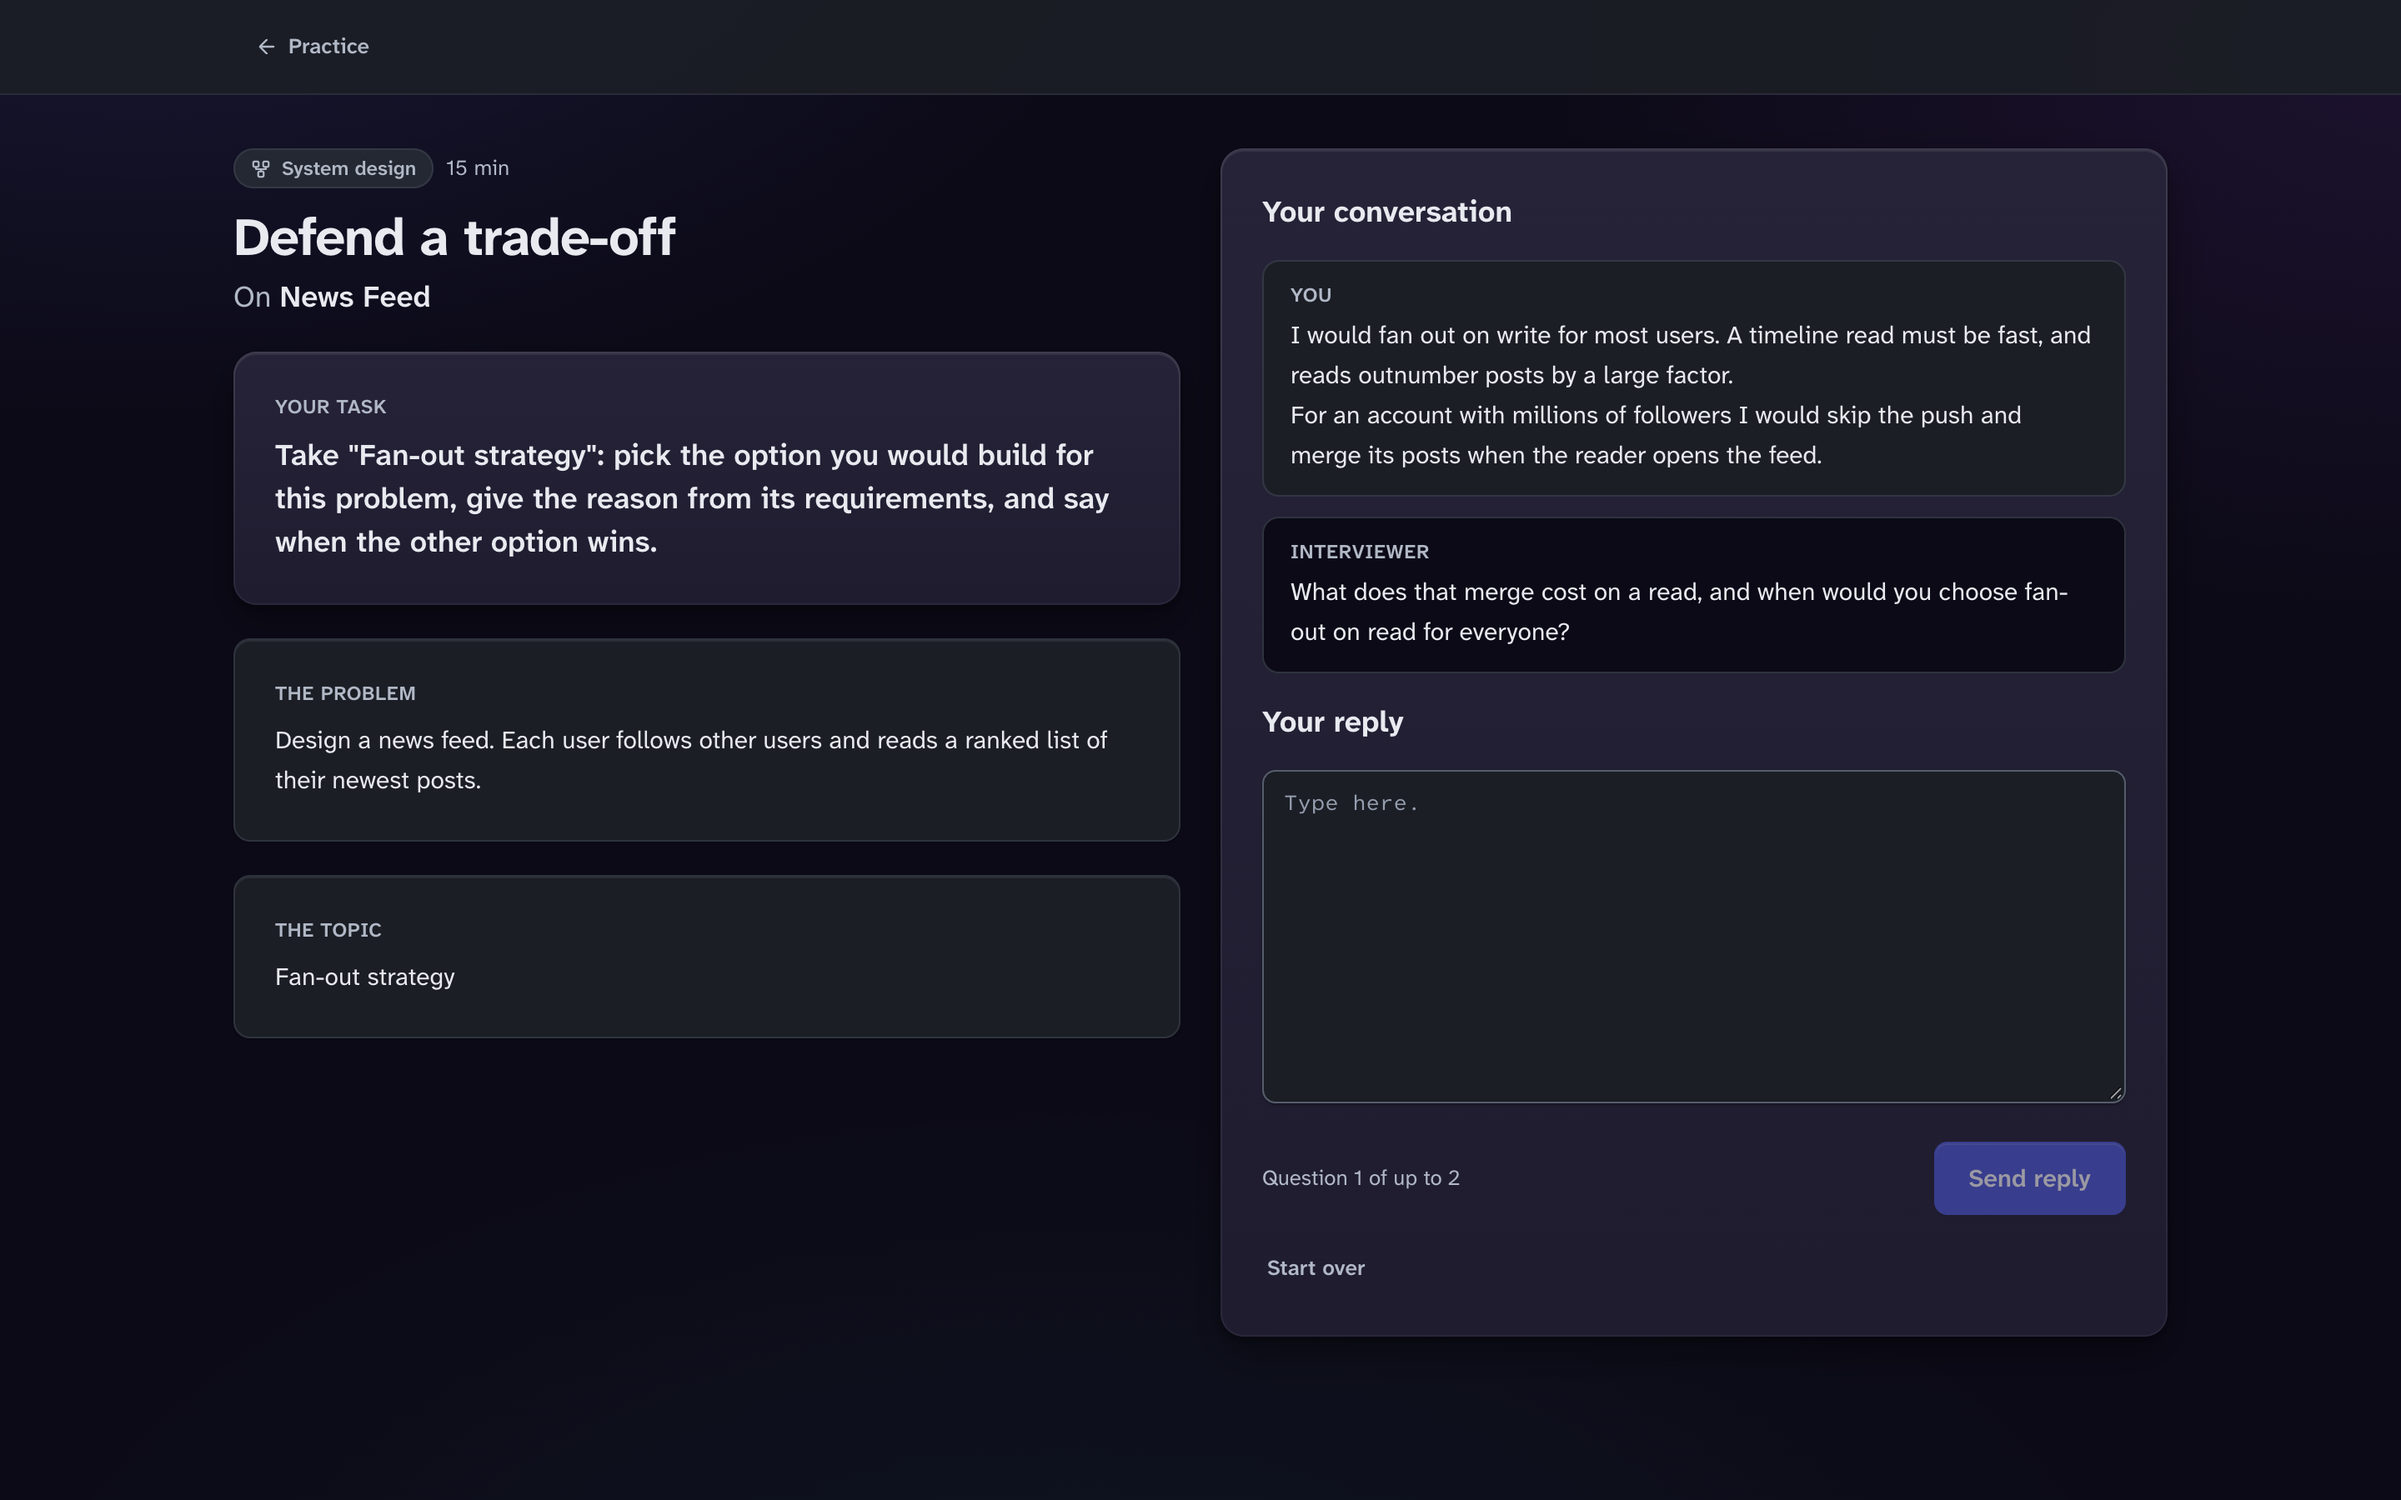
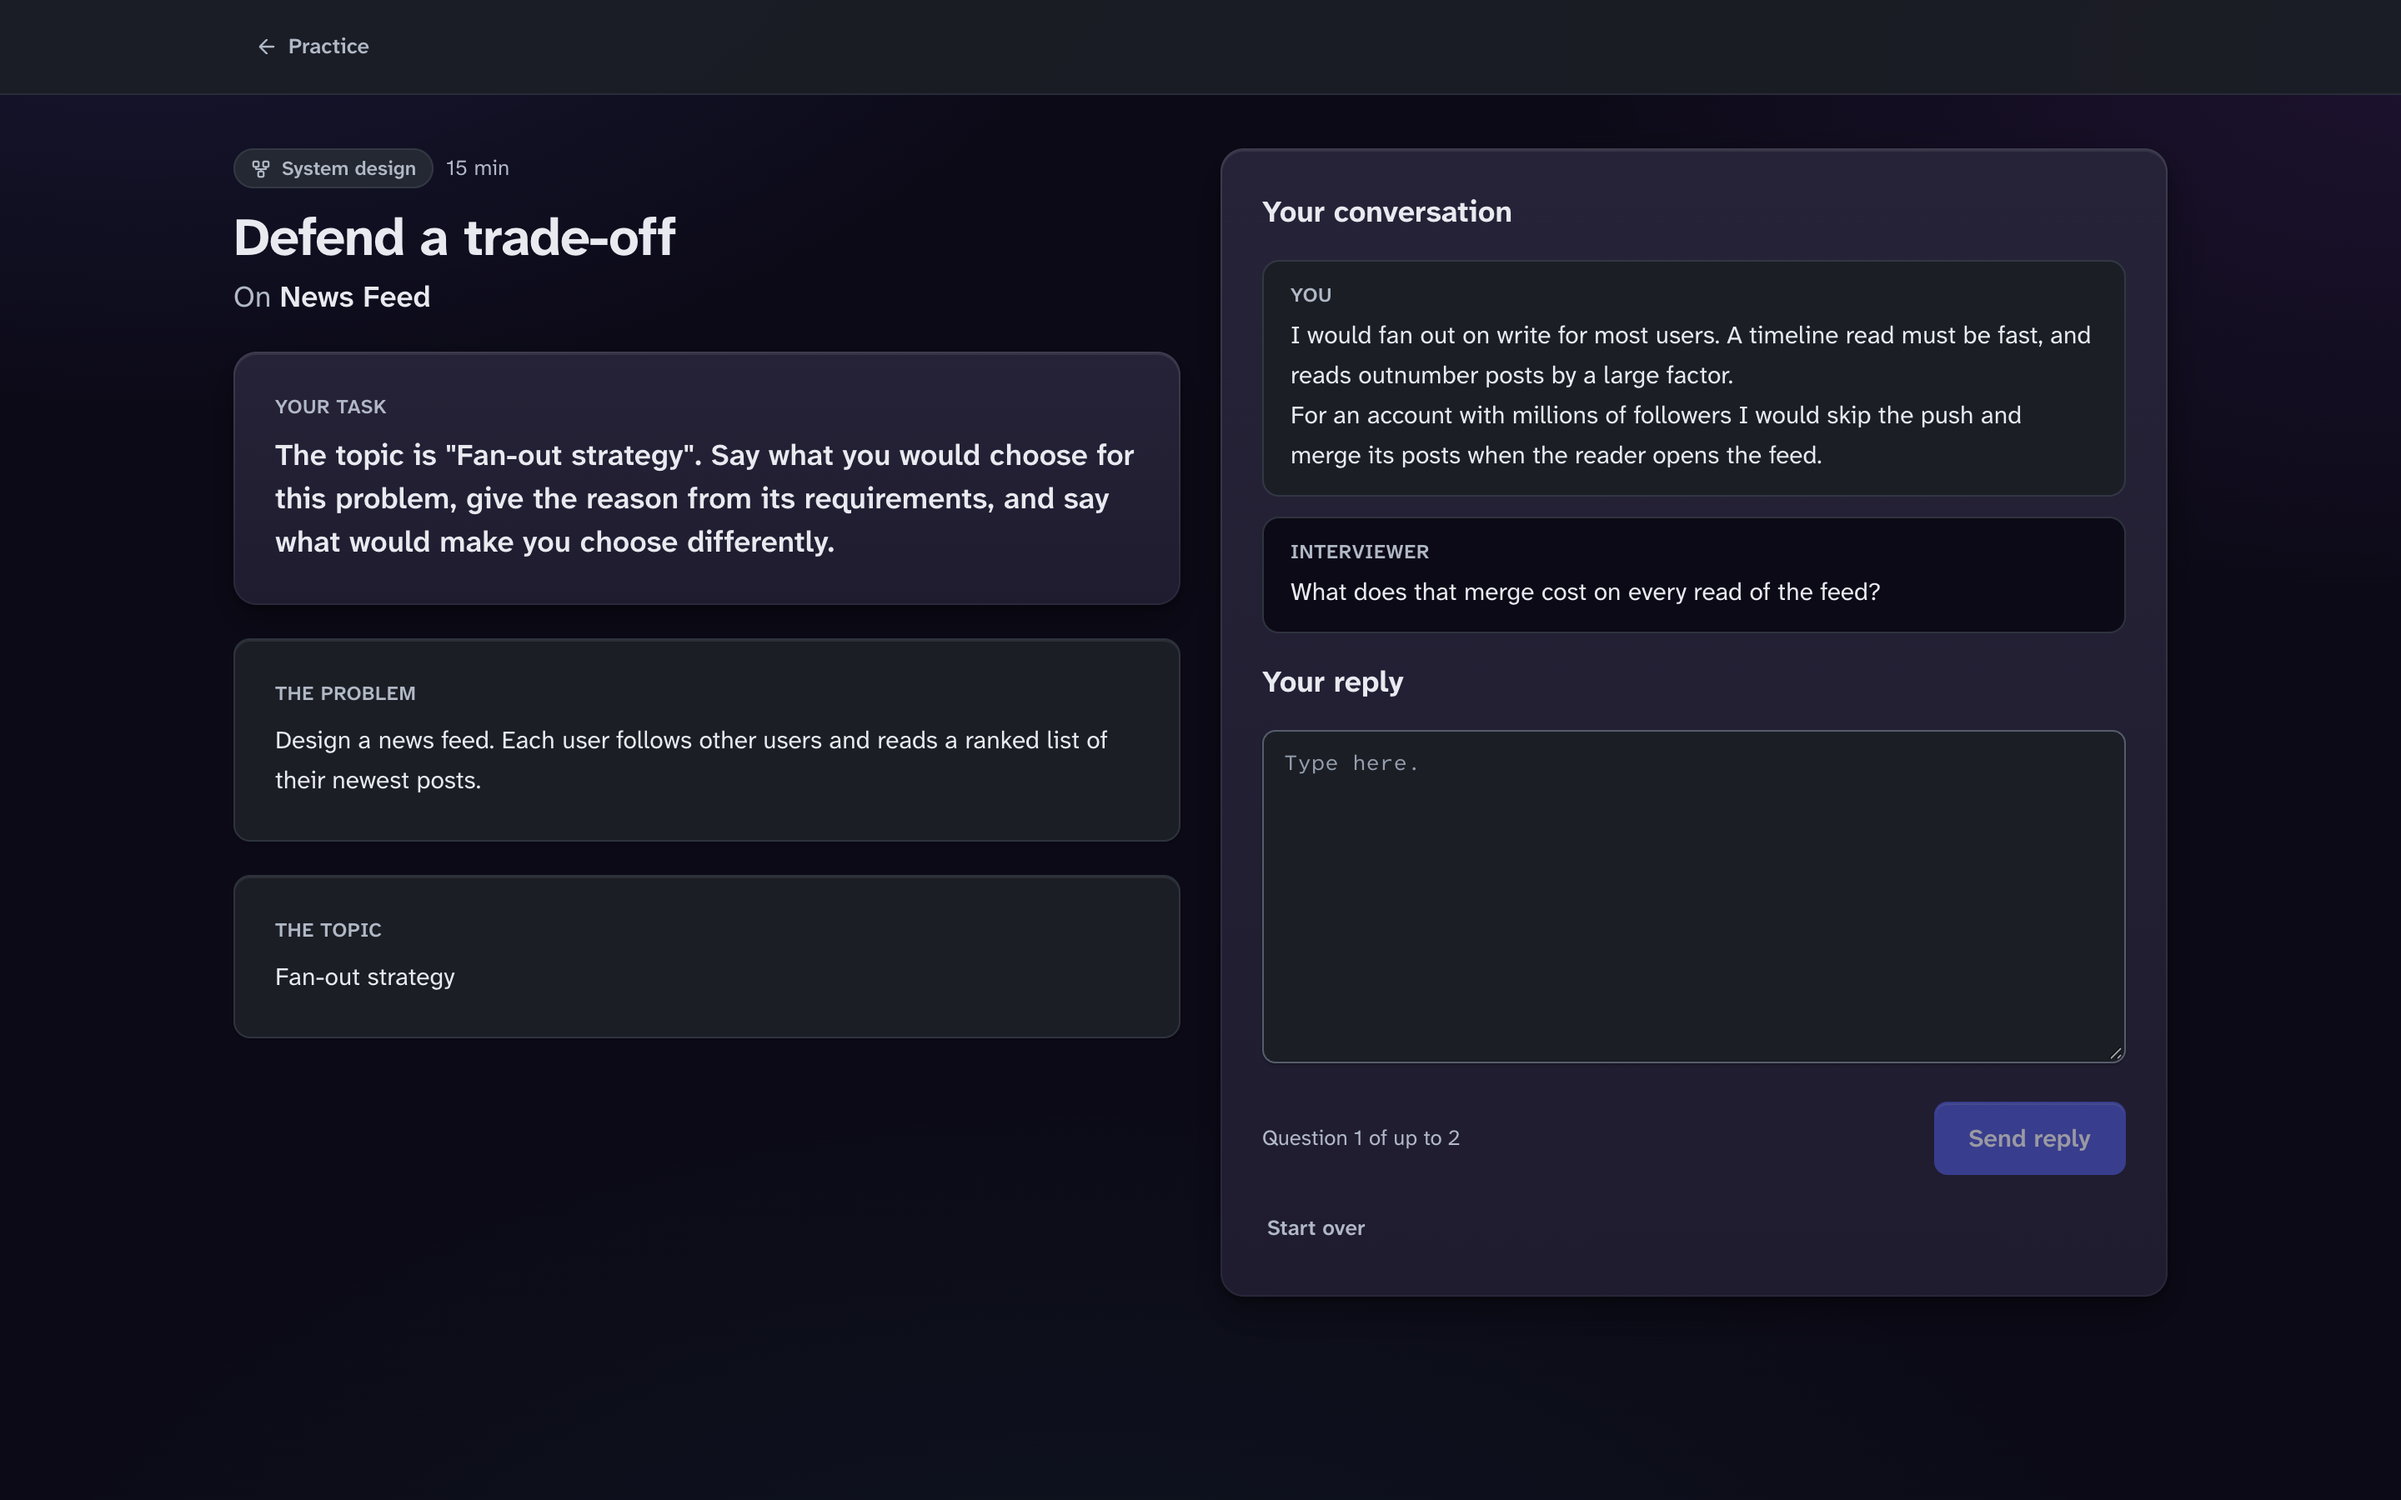
docs: show the trade-off task as the drill words it

diff --git a/src/web/fixtures/drillDialogue.tsx b/src/web/fixtures/drillDialogue.tsx
@@ -8,7 +8,7 @@ const PROMPT: DrillPrompt = {
   drill: "tradeoff",
   title: "Defend a trade-off",
   minutes: 15,
-  task: 'Take "Fan-out strategy": pick the option you would build for this problem, give the reason from its requirements, and say when the other option wins.',
+  task: 'The topic is "Fan-out strategy". Say what you would choose for this problem, give the reason from its requirements, and say what would make you choose differently.',
   topic: "Fan-out strategy",
   problem: { id: "c2-news-feed", title: "News Feed", track: "hld" },
   material: [
@@ -23,7 +23,7 @@ const TURNS: DrillTurn[] = [
     role: "candidate",
     text: "I would fan out on write for most users. A timeline read must be fast, and reads outnumber posts by a large factor.\nFor an account with millions of followers I would skip the push and merge its posts when the reader opens the feed.",
   },
-  { role: "grader", text: "What does that merge cost on a read, and when would you choose fan-out on read for everyone?" },
+  { role: "grader", text: "What does that merge cost on every read of the feed?" },
 ];
 
 /** A dialogue drill after the first question: the prompt on the left, the thread and the reply box on the right. */

diff --git a/src/web/fixtures/gym.ts b/src/web/fixtures/gym.ts
@@ -103,7 +103,7 @@ export const fixtureGym: GymSummary = {
       15,
       "2026-11-09",
       0,
-      'Take "Fan-out strategy": pick the option you would build for this problem, give the reason from its requirements, and say when the other option wins.',
+      'The topic is "Fan-out strategy". Say what you would choose for this problem, give the reason from its requirements, and say what would make you choose differently.',
     ),
     row("a1b2c3d4e5f60006", "Capacity math done without prompting", null, "capacity", "Capacity math", "c2-news-feed", "News Feed", 10, "2026-11-12", 1, ""),
   ],
